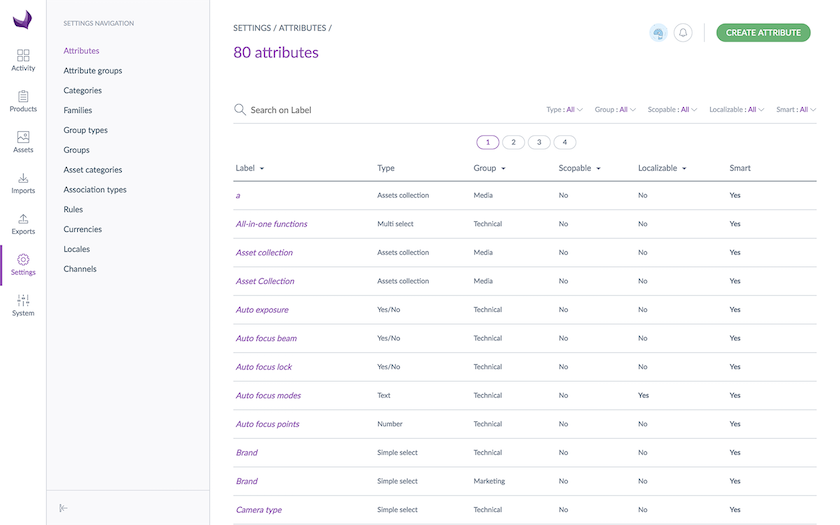
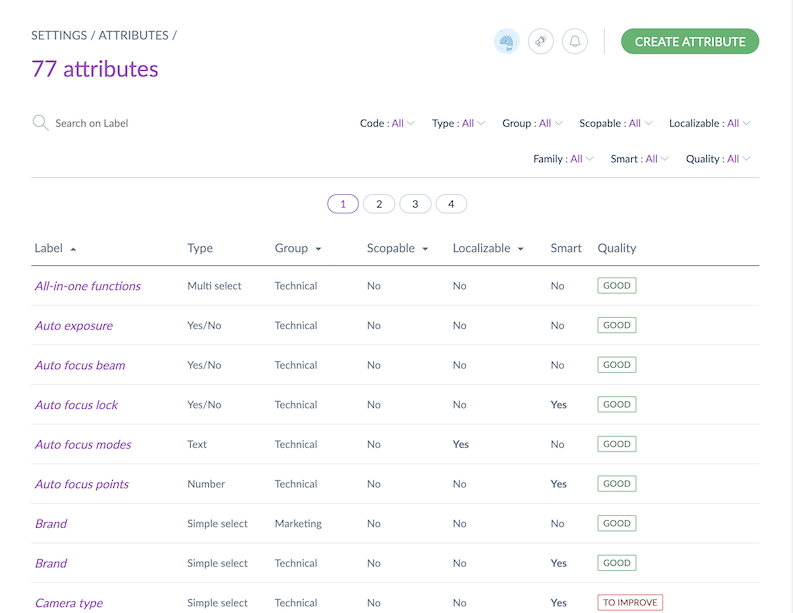
Changes to reflect new features on DQI: spell-check on attributes and attribute options - missing some screenshots and gif

diff --git a/content/md/products-super-power/improve-data-quality.md b/content/md/products-super-power/improve-data-quality.md
@@ -56,7 +56,7 @@ Now that you know how to measure your catalog’s data quality, it’s easier to
 To help you improve your products **enrichment** and **consistency**, simply follow the **recommendations** that can be found in the **data quality insights** panel in your product edit form.
 
 ![Image data quality panel](../img/data-quality-panel.png)
-From this panel, you will know which attributes need to be improved and how to improve them.
+From the `data quality panel`, you will know which attributes need to be improved and how to improve them.
 
 ::: info
 From the `data quality panel`, links on attribute names can take you to a specific attribute. By clicking on the `Display all improvable attributes`, you can easily access a product edit form filtered on all the attributes that need to be checked for consistency.
@@ -69,15 +69,17 @@ To help you even further, in the `Attributes` panel, you can select spelling cor
 ::: info
 Spell check is available for the English, French, German, Spanish, Italian, Dutch, Danish, Swedish, Norwegian and Portuguese (Brazilian) locales.
 Spell check is usable with localizable text and text area attributes.
-:::
+If you use a single locale, then spell-check are usable on text and text area attributes.
 
-::: info
 Title formatting suggestion is available for English locales.
-:::
 
-::: info
 Even if they don't have permission to edit, all PIM users will be able to read data quality insights on all attributes.
 :::
+
+From the `data quality panel`, you can view attribute labels and options with spelling mistakes. By clicking on the link, you are led to the **settings** screen from which you can correct these mistakes hence improving your consistency grade.
+
+![Image data quality spellcheck on attribute](../img/data-quality-attribue-spelling.gif)
+
 
 # Improve data quality on variant products
 

diff --git a/content/md/what-is/understand-data-quality.md b/content/md/what-is/understand-data-quality.md
@@ -29,7 +29,7 @@ From the `data quality insights` panel, by clicking on the "Display all missing 
 # How is consistency calculated?
 
 The **consistency grade** is calculated on several criteria. The mix of the following criteria helps the PIM determine the grade for consistency:
-- Spell check: localizable text and text areas are checked for spelling mistakes.
+- Spell check: localizable text and text areas, attribute labels and attribute options are checked for spelling mistakes.
 - Title formatting: the attribute used as **main label** is checked to optimize writing.
 - Uppercases formatting: the PIM checks whether text area attributes are correctly formatted for upper cases.
 - Lowercases formatting: the PIM checks whether text area attributes are correctly formatted for lower cases.
@@ -37,6 +37,7 @@ The **consistency grade** is calculated on several criteria. The mix of the foll
 ::: info
 Spell check is available for the English, French, German, Spanish, Italian, Dutch, Danish, Swedish, Norwegian and Portuguese (Brazilian) locales.
 Spell check is usable with localizable text and text area attributes.
+If you use a single locale, then spell-check are usable on text and text area attributes.
 :::
 
 ::: info

diff --git a/content/md/first-steps/manage-your-attributes.md b/content/md/first-steps/manage-your-attributes.md
@@ -152,9 +152,11 @@ You can filter on the following attribute information:
 - The attribute code
 - The attribute type
 - The attribute group it belongs to
+- The family it belongs to
 - The `scopable` property (one value per channel)
 - The `localizable` property (one value per locale)
 - The `smart` property (Yes/No) if there is a rule impacting this attribute _(Enterprise Edition only)_
+- The `quality` status (Good/To improve) if there are spelling typos to correct _(Enterprise Edition only)_
 
 ::: info
 By default, attributes will be displayed in the catalog locale selected in the product grid. If an attribute code appears into brackets like *[color]*, it means it has not been translated into the current locale.
